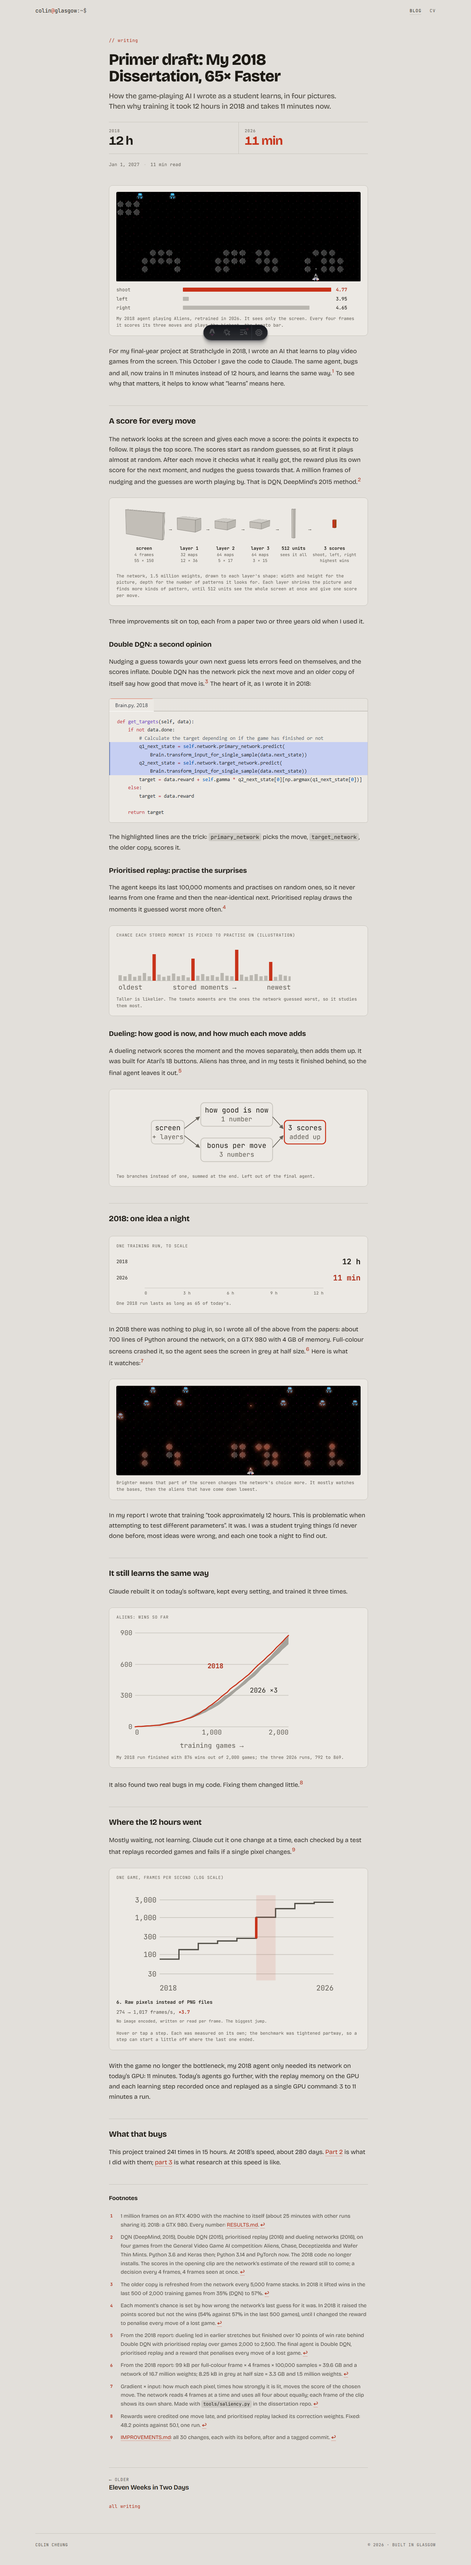
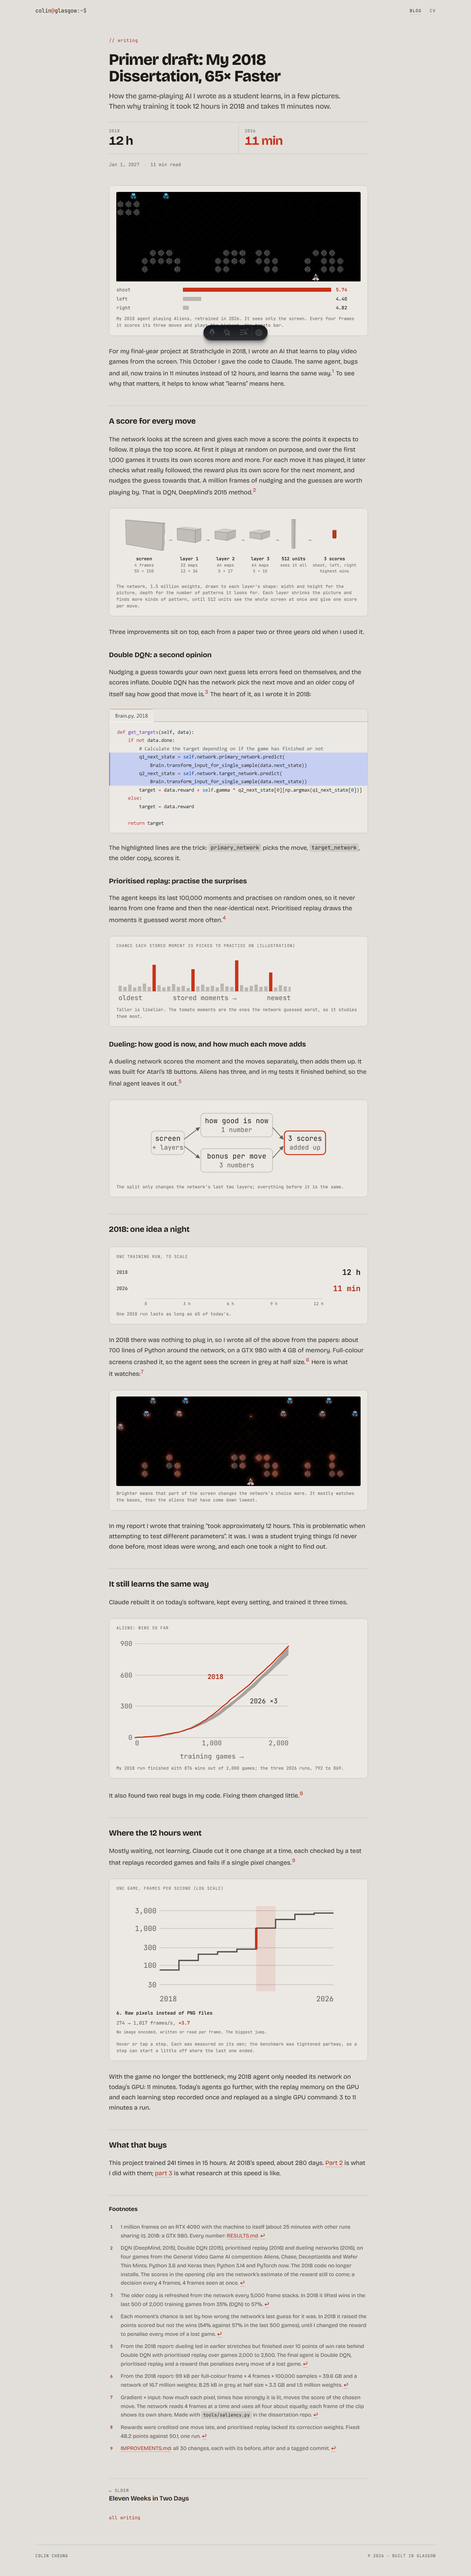
Part 1 primer draft: random play is deliberate exploration; learning happens later, from memory
The DQN paragraph said the random start came from bad guesses and that each move
was checked straight after it; the 2018 agent explores on purpose (epsilon 1 to
0.1 over 1,000 games) and trains from memory at game end. The dueling caption no
longer repeats its body line.

diff --git a/src/content/blog/dissertation-revival-speed-primer.md b/src/content/blog/dissertation-revival-speed-primer.md
@@ -1,7 +1,7 @@
 ---
 title: "Primer draft: My 2018 Dissertation, 65× Faster"
 shortTitle: "Primer draft: 65× faster"
-description: "How the game-playing AI I wrote as a student learns, in four pictures. Then why training it took 12 hours in 2018 and takes 11 minutes now."
+description: "How the game-playing AI I wrote as a student learns, in a few pictures. Then why training it took 12 hours in 2018 and takes 11 minutes now."
 stat: "12 h → 11 min"
 figures:
   - label: "2018"
@@ -22,7 +22,7 @@ For my final-year project at Strathclyde in 2018, I wrote an AI that learns to p
 
 ## A score for every move
 
-The network looks at the screen and gives each move a score: the points it expects to follow. It plays the top score. The scores start as random guesses, so at first it plays almost at random. After each move it checks what it really got, the reward plus its own score for the next moment, and nudges the guess towards that. A million frames of nudging and the guesses are worth playing by. That is DQN, DeepMind's 2015 method.[^methods]
+The network looks at the screen and gives each move a score: the points it expects to follow. It plays the top score. At first it plays at random on purpose, and over the first 1,000 games it trusts its own scores more and more. For each move it has played, it later checks what really followed, the reward plus its own score for the next moment, and nudges the guess towards that. A million frames of nudging and the guesses are worth playing by. That is DQN, DeepMind's 2015 method.[^methods]
 
 <figure class="fig">
 <div class="arch"><figure class="arch__l"><div class="cube" style="--w:7.35rem;--h:4.45rem;--d:0.70rem"><i></i><i></i><i></i></div><figcaption><b>screen</b><small>4 frames</small><small>55 × 150</small></figcaption></figure><span class="arch__to" aria-hidden="true">→</span><figure class="arch__l"><div class="cube" style="--w:3.60rem;--h:2.08rem;--d:1.98rem"><i></i><i></i><i></i></div><figcaption><b>layer 1</b><small>32 maps</small><small>12 × 36</small></figcaption></figure><span class="arch__to" aria-hidden="true">→</span><figure class="arch__l"><div class="cube" style="--w:2.47rem;--h:1.34rem;--d:2.80rem"><i></i><i></i><i></i></div><figcaption><b>layer 2</b><small>64 maps</small><small>5 × 17</small></figcaption></figure><span class="arch__to" aria-hidden="true">→</span><figure class="arch__l"><div class="cube" style="--w:2.32rem;--h:1.04rem;--d:2.80rem"><i></i><i></i><i></i></div><figcaption><b>layer 3</b><small>64 maps</small><small>3 × 15</small></figcaption></figure><span class="arch__to" aria-hidden="true">→</span><figure class="arch__l"><div class="cube" style="--w:0.50rem;--h:5.00rem;--d:0.50rem"><i></i><i></i><i></i></div><figcaption><b>512 units</b><small>sees it all</small></figcaption></figure><span class="arch__to" aria-hidden="true">→</span><figure class="arch__l"><div class="cube cube--hi" style="--w:0.50rem;--h:1.40rem;--d:0.50rem"><i></i><i></i><i></i></div><figcaption><b>3 scores</b><small>shoot, left, right</small><small>highest wins</small></figcaption></figure></div>
@@ -82,7 +82,7 @@ A dueling network scores the moment and the moves separately, then adds them up.
 <path class="arr" style="marker-end:url(#prim-head)" d="M208,36 L226,56"/><path class="arr" style="marker-end:url(#prim-head)" d="M208,88 L226,68"/>
 <g class="mine"><rect x="228" y="42" width="70" height="40" rx="6"/><text x="263" y="59" text-anchor="middle">3 scores</text><text x="263" y="74" text-anchor="middle" class="sub">added up</text></g>
 </svg>
-<figcaption>Two branches instead of one, summed at the end. Left out of the final agent.</figcaption>
+<figcaption>The split only changes the network's last two layers; everything before it is the same.</figcaption>
 </figure>
 
 ## 2018: one idea a night
